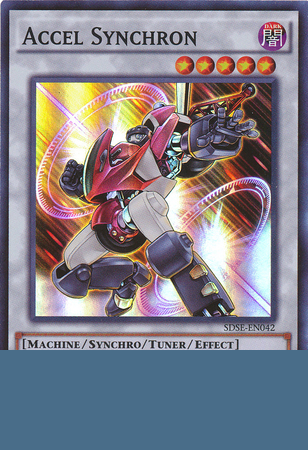
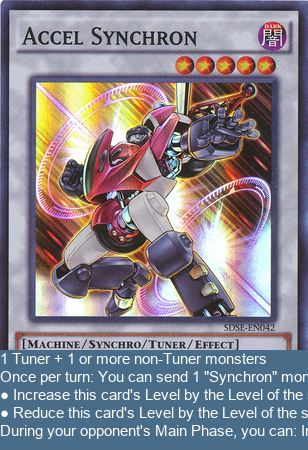
writing text on cards works

Changed region(s): [[0.0, 0.7778, 1.0, 0.9956]]

diff --git a/pillow/pillow.py b/pillow/pillow.py
@@ -16,12 +16,11 @@ draw.rectangle([(0, height - 100), (height, height)], (73, 109, 137))
 path = os.path.join(os.path.dirname(__file__), 'accel.json')
 data_file = open(path, 'r')
 data = json.load(data_file)
-print(data)
+
+fnt = ImageFont.truetype('/Library/Fonts/Arial.ttf', 15)
+draw.text((0, height-100), data['text'], font=fnt)
 
 im.save('accel.png')
-
-print(width)
-print(height)
 
 # path = os.path.join(os.path.dirname(__file__), 'set-1-copy')
 # pictures = os.listdir(path)
